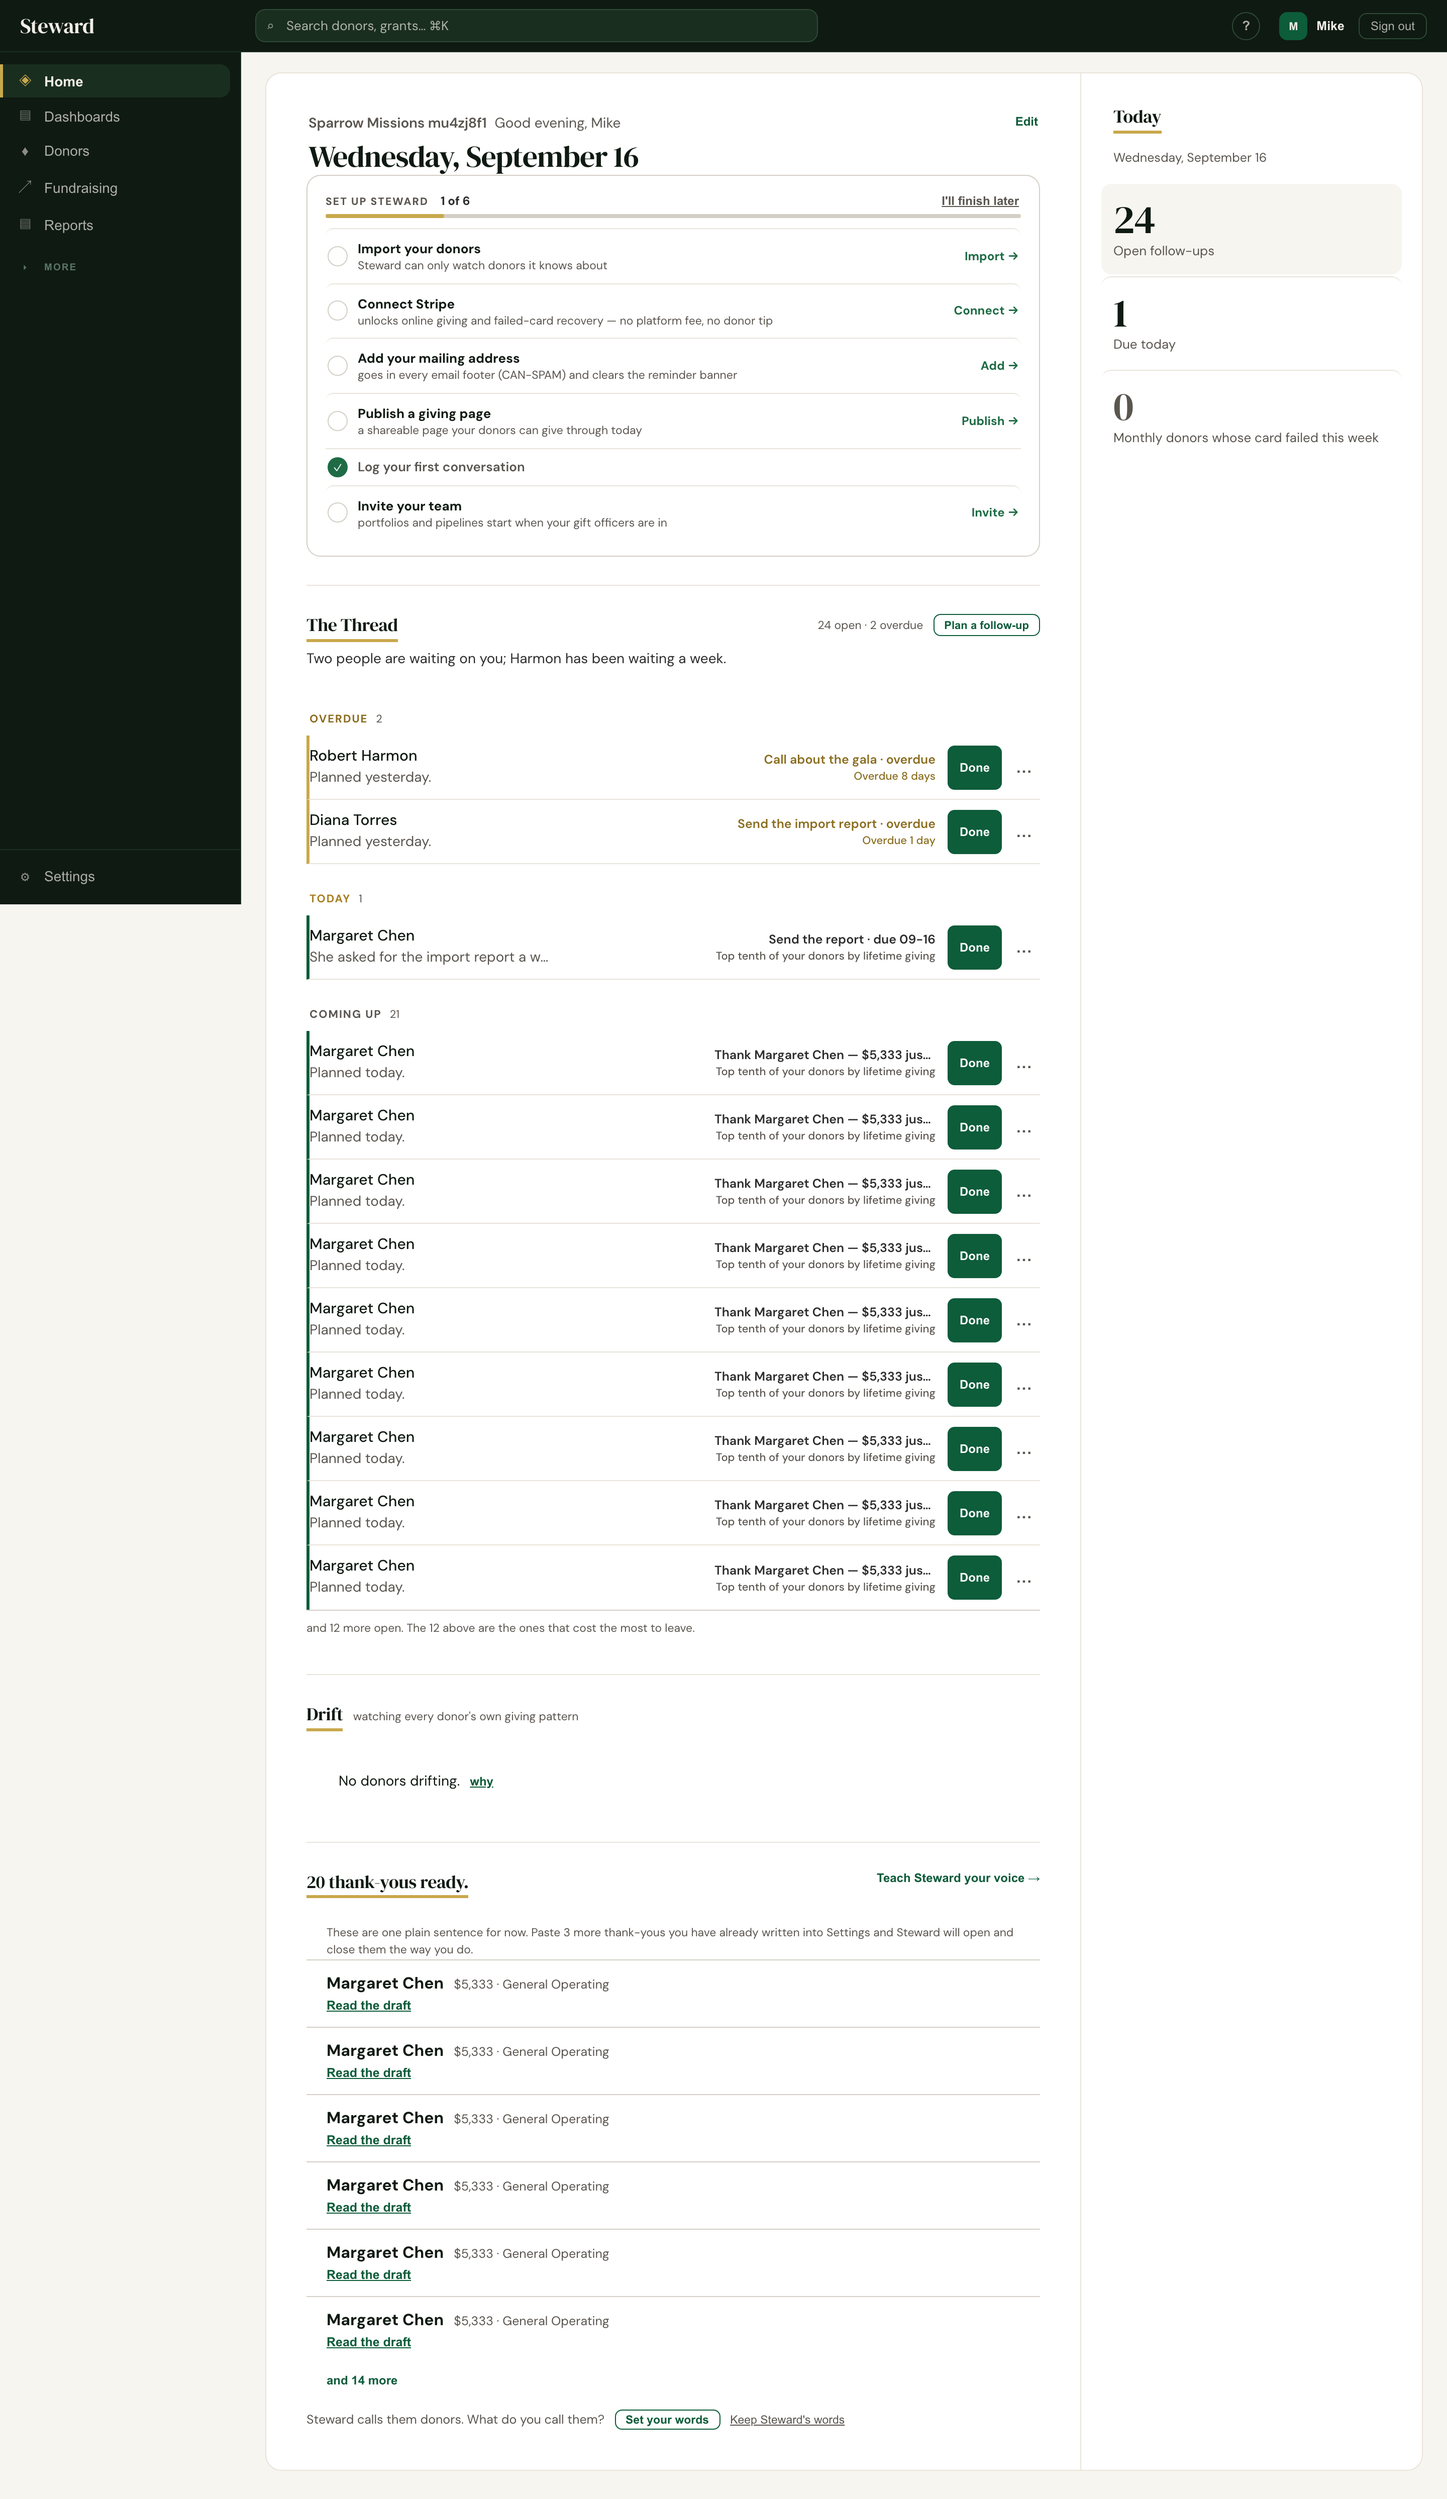
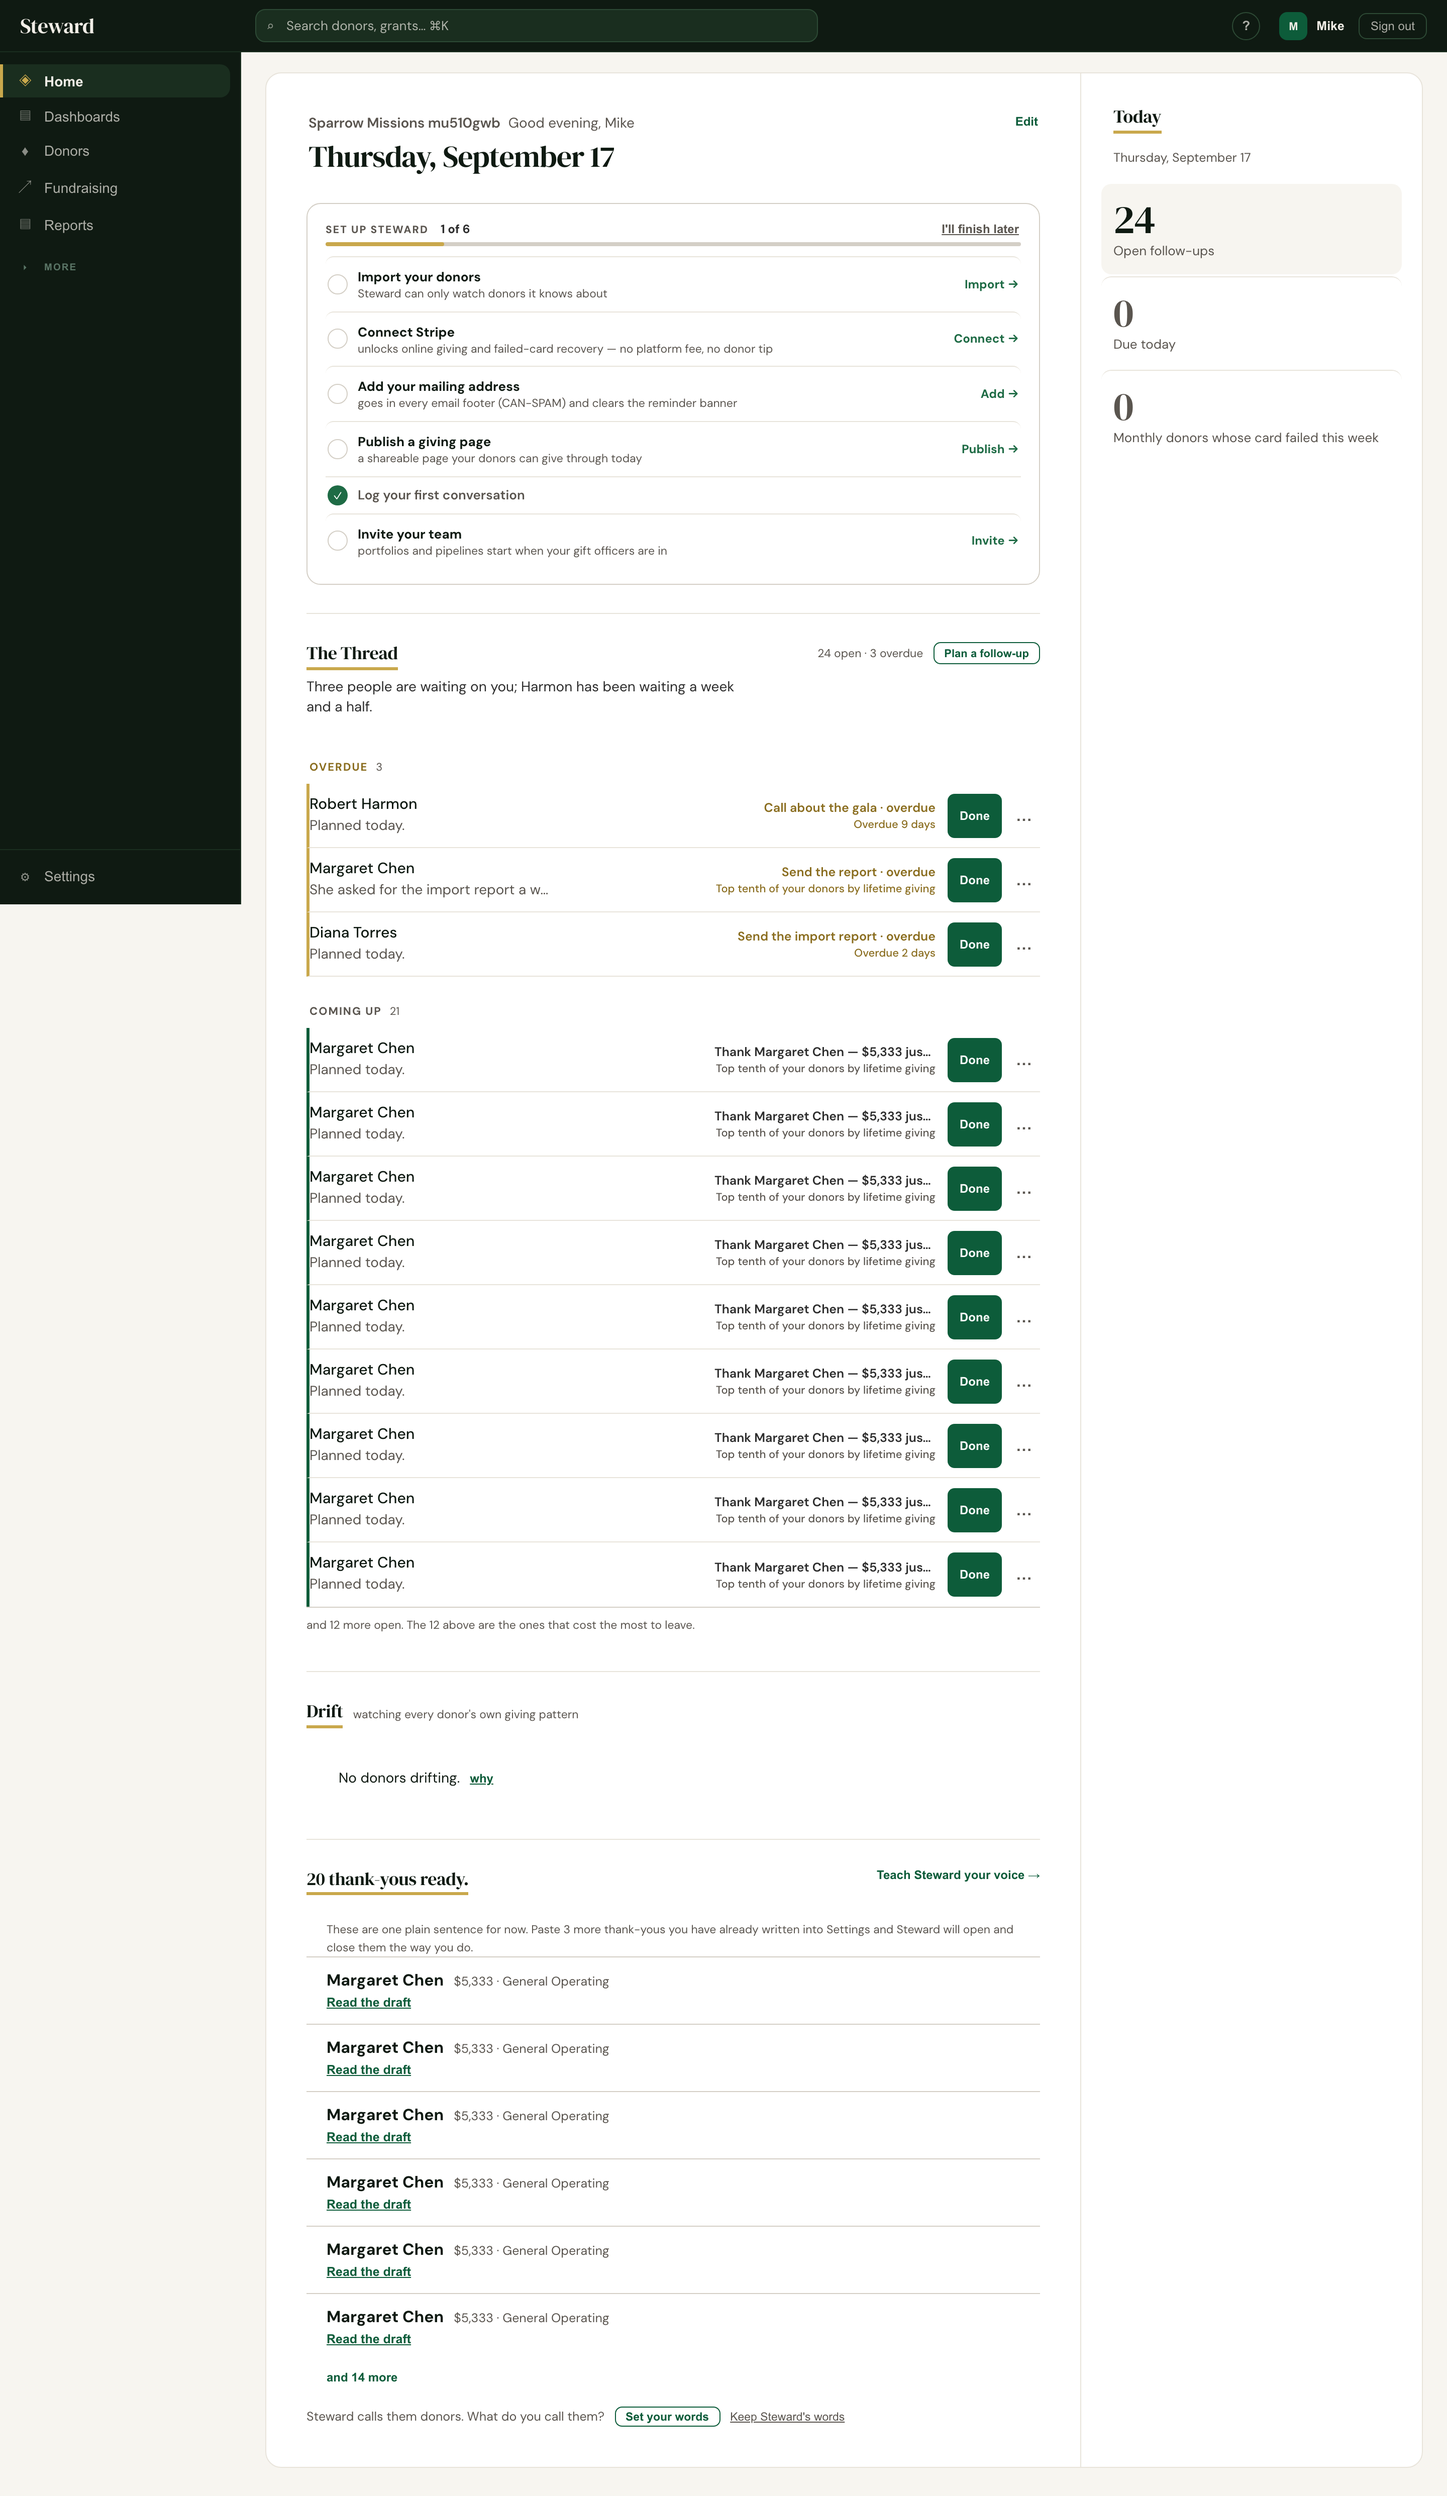
BUILD-89: the first block on Home needs air under the header
The day and the first section header sat on top of each other once the
setup card retires (which is every org that is actually set up — seen on
prod right after the deploy). A block's 28px is its own now, not something
only the second one gets.

diff --git a/client/src/components/shared.jsx b/client/src/components/shared.jsx
@@ -411,7 +411,8 @@ export function GlobalStyles() {
     @media (prefers-reduced-motion:reduce){.home-rail-row{transition:none;}}
     /* A section inside the panel is separated by air and a rule, never by a
        second border — the panel already drew one. */
-    .home-block+.home-block{border-top:1px solid #e8e4db;margin-top:28px;padding-top:28px;}
+    .home-block{margin-top:28px;}
+    .home-block+.home-block{border-top:1px solid #e8e4db;padding-top:28px;}
     /* A row is 64px and its three regions share one line. 9px of air, a 44px
        touch target, 9px of air; the height is fixed rather than minimum so a
        half-pixel of line box cannot turn one row in a queue into 65. */
